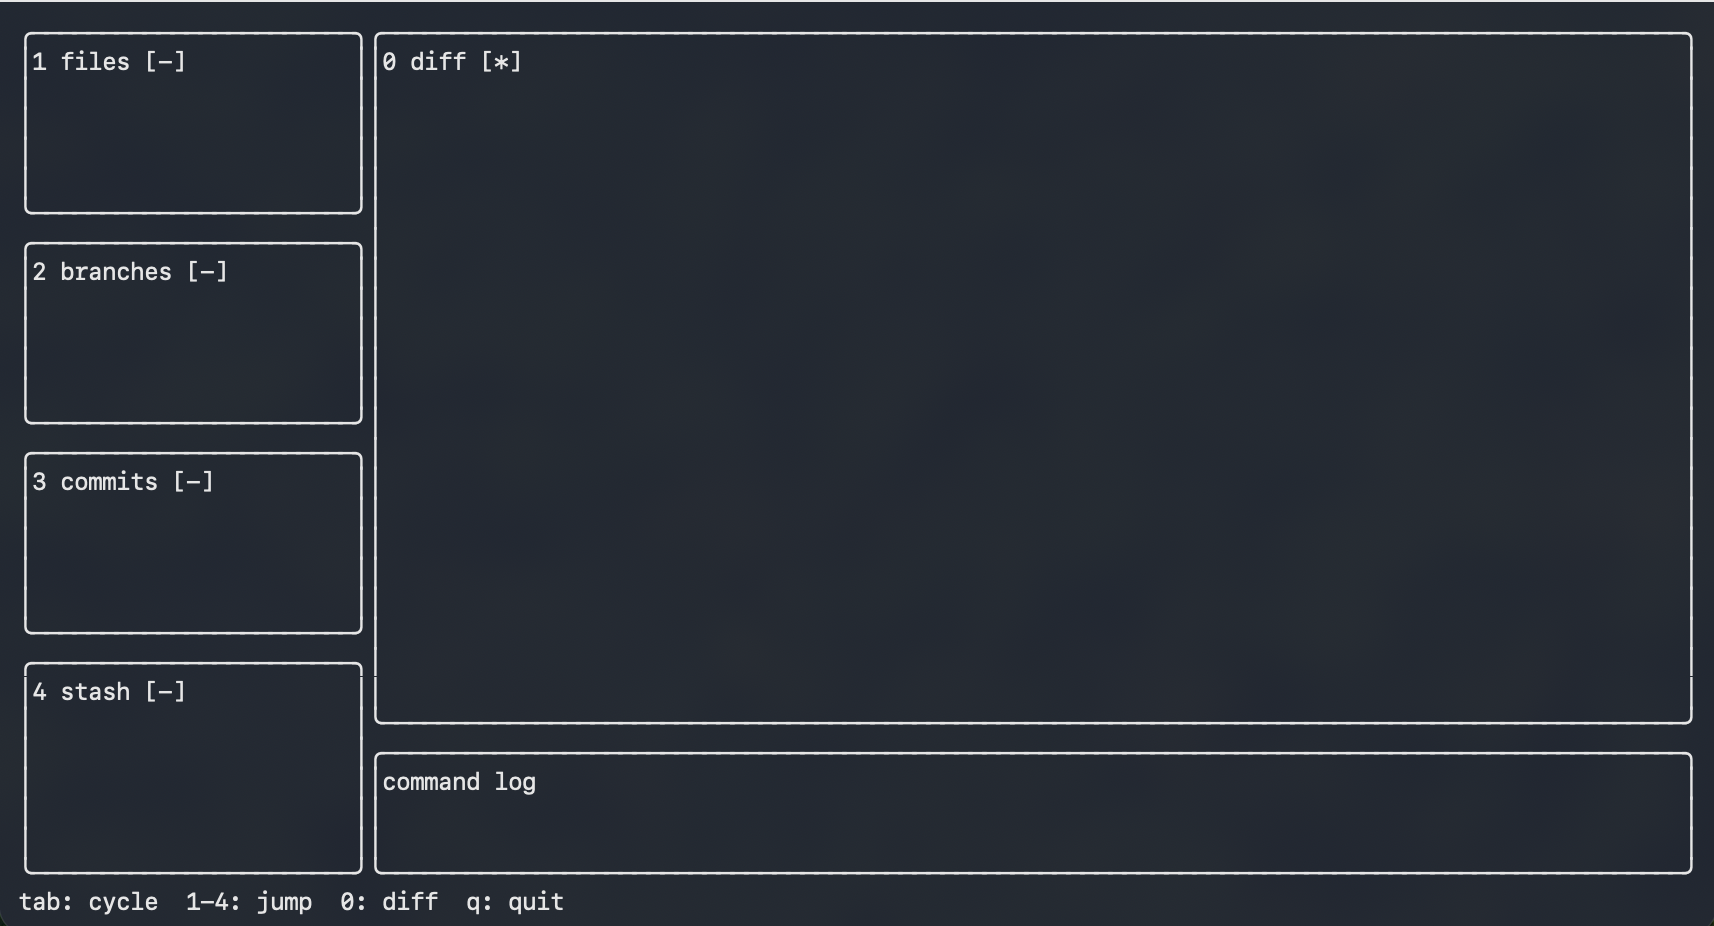
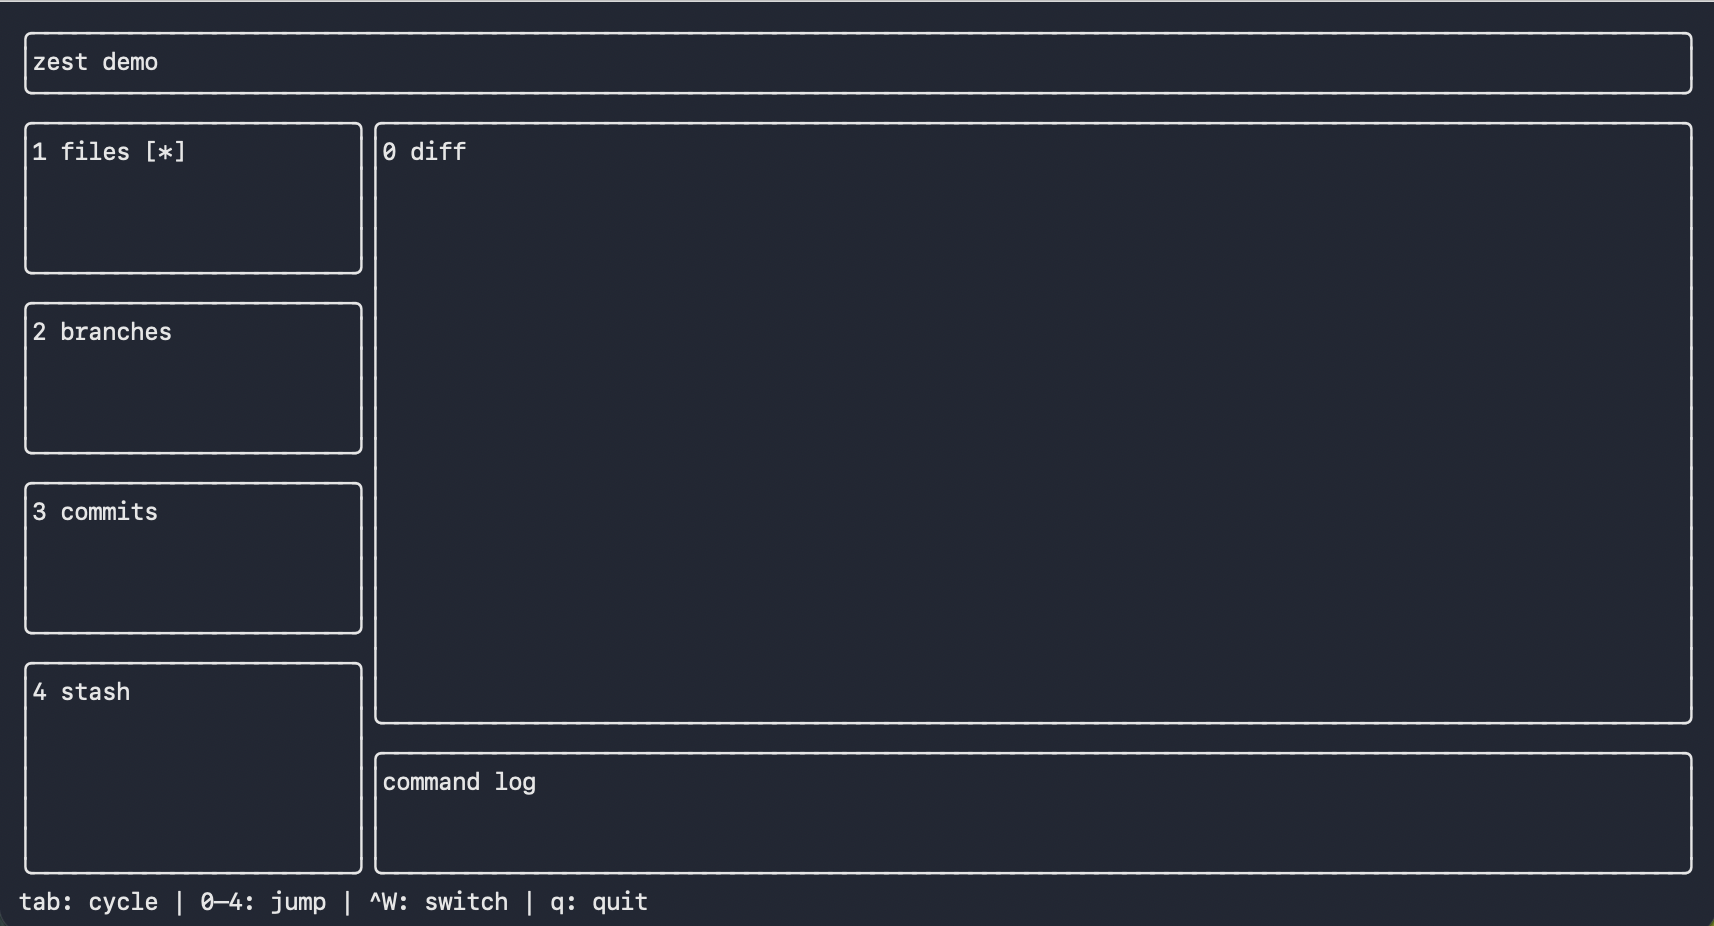
rewrite README to document shipped layout and focus domain APIs
Core Ideas gains Focus Domains and Non-Focusable Chrome sections covering
what's now implemented. Quick Start is split into two parts: basic layout
(pane/hsplit/vsplit) and focus domains (domain(), panelCountInDomain, per-
domain FocusStack passing). Roadmap milestone 3 updated to reflect what was
actually built — FocusStack, Tab cycling, domain isolation — and marked
complete. Demo image replaced with the current lazygit-style layout.

diff --git a/README.md b/README.md
@@ -1,6 +1,6 @@
 # Zest
 
-Declarative, high-level TUI framework for Zig — comptime layouts, zero heap per frame.
+Declarative, high-level TUI framework for Zig — comptime layouts, domain focus isolation, zero heap per frame.
 
 > **Status: Pre-alpha. Active development. Not ready for production use.**
 
@@ -8,9 +8,113 @@ Declarative, high-level TUI framework for Zig — comptime layouts, zero heap pe
 
 ## What is Zest?
 
-Zest is a TUI framework for Zig that lets you build rich, beautiful terminal applications without writing layout math or touching terminal escape sequences. It sits above [`libvaxis`](https://github.com/rockorager/libvaxis) and handles everything between raw terminal I/O and your application logic.
+Zest is a TUI framework for Zig that lets you build rich terminal applications without writing layout math or touching terminal escape sequences. It sits above [`libvaxis`](https://github.com/rockorager/libvaxis) and handles everything between raw terminal I/O and your application logic.
 
-The goal is to give Zig developers what Textual gives Python developers — a productive, expressive way to build terminal UIs with a clean component model, a design token styling system, and predictable performance.
+The goal is to give Zig developers what Textual gives Python developers — a productive, expressive way to build terminal UIs. The entire screen structure is a single comptime blueprint tree: geometry, focus topology, and chrome are all declared in one place.
+
+---
+
+## Why Not Just Use libvaxis Directly?
+
+libvaxis handles the hard parts at the bottom — terminal I/O, screen diffing, cell rendering. Zest handles the hard parts at the top: turning a declarative intent into correct pixel geometry and focus topology, every frame, with no boilerplate. The premise is that **screen structure is a type, not a calculation**.
+
+libvaxis ships a higher-level layer called `vxfw` with `FlexColumn`, `FlexRow`, and `SplitView` widgets. Using those, the geometry for the demo is expressible without manual coordinate arithmetic. Here is what it looks like:
+
+```zig
+// Every widget is a mutable runtime struct — all must be kept alive for
+// the duration of the frame. Widget identity is *anyopaque at every edge.
+var header_text:   vxfw.Text = .{ .text = "zest demo" };
+var files_text:    vxfw.Text = .{ .text = "1 files" };
+var branches_text: vxfw.Text = .{ .text = "2 branches" };
+var commits_text:  vxfw.Text = .{ .text = "3 commits" };
+var stash_text:    vxfw.Text = .{ .text = "4 stash" };
+var diff_text:     vxfw.Text = .{ .text = "0 diff" };
+var cmdlog_text:   vxfw.Text = .{ .text = "command log" };
+var footer_text:   vxfw.Text = .{ .text = "tab: cycle | ..." };
+
+// SizedBox enforces fixed heights for chrome panes.
+// .size is a vxfw.Size struct; omitting .width leaves it unconstrained.
+var header_box: vxfw.SizedBox = .{ .size = .{ .height = 3 }, .child = header_text.widget() };
+var cmdlog_box: vxfw.SizedBox = .{ .size = .{ .height = 5 }, .child = cmdlog_text.widget() };
+var footer_box: vxfw.SizedBox = .{ .size = .{ .height = 1 }, .child = footer_text.widget() };
+
+var sidebar: vxfw.FlexColumn = .{ .children = &.{
+    .{ .widget = files_text.widget(),    .flex = 1 },
+    .{ .widget = branches_text.widget(), .flex = 1 },
+    .{ .widget = commits_text.widget(),  .flex = 1 },
+    .{ .widget = stash_text.widget(),    .flex = 1 },
+}};
+var main_col: vxfw.FlexColumn = .{ .children = &.{
+    .{ .widget = diff_text.widget(),  .flex = 1 },
+    .{ .widget = cmdlog_box.widget(), .flex = 0 },
+}};
+// SplitView is horizontal-only and binary — one separator, two sides.
+var body_split: vxfw.SplitView = .{
+    .lhs = sidebar.widget(), .rhs = main_col.widget(), .width = 25,
+};
+var root: vxfw.FlexColumn = .{ .children = &.{
+    .{ .widget = header_box.widget(), .flex = 0 },
+    .{ .widget = body_split.widget(), .flex = 1 },
+    .{ .widget = footer_box.widget(), .flex = 0 },
+}};
+```
+
+This works. The geometry math is gone. But two problems remain that vxfw does not address.
+
+**Focus topology is still entirely manual.** vxfw's `App` routes key events to whichever widget currently holds focus, but focus topology — which panels share a Tab ring, which domains are independent, which panes are non-focusable chrome — is the application's responsibility. After the layout above, you still write the same `SIDEBAR_COUNT` constant, the same per-panel boolean conditions, and the same four-site update when a pane is added.
+
+**Panel identity is lost at every node.** The widget protocol is `*anyopaque` + function pointer at every boundary. There is no `p.sidebar`, no compile-time name validation, and `FlexColumn` heap-allocates a `Surface` and children list on every draw call.
+
+The same layout in Zest is the single blueprint in the [Quick Start](#focus-domains) section below. The difference is not just fewer lines — it is a different level of abstraction.
+
+**You describe intent, not computation.** `fraction = 1` replaces coordinate arithmetic, and the layout declaration and focus topology live in the same tree. Rename a pane — it's one word change; mistype it and the compiler tells you immediately.
+
+**The schema is the program.** Adding a fifth sidebar pane is one new `pane()` line. Tab cycling, domain isolation, and focus stamping are all derived from that declaration — there is no parallel counter, no index to keep in sync, no extra branch to remember.
+
+**Correctness is structural, not conventional.** `focusable = false` on a header or log strip is a compile-time fact. The compositor enforces it unconditionally. In vxfw and raw libvaxis alike, the invariant "this panel is never focused" is a convention — invisible to the compiler and easy to violate under refactoring.
+
+### Structural changes stay local
+
+This advantage compounds when you make changes. Say you want to split the command log into a raw log on the left and a detail view on the right.
+
+In Zest, wrap the existing `pane` in an `hsplit` and add one child:
+
+```zig
+// Before — one line:
+zest.pane(.{ .id = "cmdlog", .size = .{ .fixed = 5 }, .border = true, .focusable = false }),
+
+// After — still one logical declaration:
+zest.hsplit(.{
+    .size     = .{ .fixed = 5 },
+    .children = &.{
+        zest.pane(.{ .id = "cmdlog", .size = .{ .fraction = 1 }, .border = true, .focusable = false }),
+        zest.pane(.{ .id = "detail", .size = .{ .fixed = 30 },   .border = true, .focusable = false }),
+    },
+}),
+```
+
+`p.detail` appears in the result struct immediately. Forget to render it and the compiler tells you.
+
+In vxfw, the same change touches four separate sites:
+
+```zig
+// Before — cmdlog is a SizedBox wrapping a single Text widget:
+var cmdlog_box: vxfw.SizedBox = .{ .size = .{ .height = 5 }, .child = cmdlog_text.widget() };
+
+// After — new Text, new SizedBox, new FlexRow, and main_col's children rewired.
+var detail_text: vxfw.Text     = .{ .text = "detail" };
+var detail_box:  vxfw.SizedBox = .{ .size = .{ .width = 30 }, .child = detail_text.widget() };
+var cmdlog_row:  vxfw.FlexRow  = .{ .children = &.{
+    .{ .widget = cmdlog_text.widget(), .flex = 1 },
+    .{ .widget = detail_box.widget(),  .flex = 0 },
+}};
+var main_col: vxfw.FlexColumn = .{ .children = &.{
+    .{ .widget = diff_text.widget(),  .flex = 1 },
+    .{ .widget = cmdlog_row.widget(), .flex = 0 },  // ← was cmdlog_box
+}};
+```
+
+And the focus bookkeeping is unchanged — because vxfw never touched it.
 
 ---
 
@@ -18,19 +122,36 @@ The goal is to give Zig developers what Textual gives Python developers — a pr
 
 ### Comptime Panel Layouts
 
-The structure of your screen — which panels go where — is declared as nested anonymous structs and validated at compile time. No layout math. No coordinate arithmetic. The framework resolves panel positions at render time using the actual terminal dimensions.
+Screen structure — which panels go where, which share a Tab focus ring, which are non-focusable chrome — is declared as a comptime blueprint tree and validated at compile time. The framework resolves panel positions from actual terminal dimensions at render time. No layout math. No coordinate arithmetic.
+
+### Focus Domains
+
+`domain()` nodes mark focus boundaries inside the blueprint. Tab cycling is constrained to the focusable panes within a single domain; focus never crosses domain boundaries automatically. Each domain gets its own `FocusStack`. Pressing a hotkey to jump between domains is explicit, deliberate, and stays within each column's own memory.
+
+```zig
+const layout = zest.vsplit(.{
+    .children = &.{
+        zest.domain(.{ .id = "nav",  .direction = .vertical, .size = .{ .fixed = 25 }, .children = &.{ ... } }),
+        zest.domain(.{ .id = "main", .direction = .vertical, .size = .{ .fraction = 1 }, .children = &.{ ... } }),
+    },
+});
+```
+
+### Non-Focusable Chrome
+
+Panes declared with `focusable = false` are excluded from Tab cycling and always report `focused = false`. Headers, footers, status bars, and log strips are declared inline — no null-focus plumbing needed.
 
 ### Widgets Own Their State *(planned)*
 
-Widgets will be structs with explicit state — scroll position, cursor, selection index. Application data (the items a list displays, the rows a table renders) is passed in at draw time. This keeps widgets reusable and keeps your data model in control.
+Widgets will be structs with explicit state — scroll position, cursor, selection index. Application data is passed in at draw time. This keeps widgets reusable and keeps your data model in control.
 
 ### Design Token Styling *(planned)*
 
-Colors and text styles will be expressed as named tokens (`primary`, `danger`, `surface`, `muted`) rather than raw color codes. A theme maps tokens to concrete terminal colors at render time. Invalid token usage fails at compile time.
+Colors and text styles will be expressed as named tokens (`primary`, `danger`, `surface`, `muted`) rather than raw color codes. A theme maps tokens to concrete terminal colors at render time.
 
 ### Single-Threaded First
 
-Zest uses a straightforward single-threaded event loop: read event → update state → render. This makes the execution model easy to reason about and debug. Threading is planned as an opt-in feature after v1.0.
+A straightforward single-threaded event loop: read event → update state → render. Threading is an opt-in feature planned post-1.0.
 
 ### Zero Heap Per Frame
 
@@ -40,13 +161,15 @@ All memory allocated during a render pass lives in a frame-scoped arena that is 
 
 ## Demo
 
-![Zest lazygit-style demo — seven bordered panels with named layout and focus cycling](docs/img/demo.png)
+![Zest demo — lazygit-style layout with header, sidebar focus domain, main focus domain, command log, and footer](docs/img/demo.png)
 
 ---
 
 ## Quick Start
 
-Declare your screen layout once as a comptime blueprint — Zest resolves panel positions from the actual terminal dimensions at render time:
+### Layout
+
+Declare your screen structure once as a comptime blueprint. `hsplit` and `vsplit` are branch nodes that divide space; `pane` is a leaf that becomes a rendered panel:
 
 ```zig
 const layout = zest.hsplit(.{
@@ -63,41 +186,14 @@ const layout = zest.hsplit(.{
 });
 ```
 
-Call `Layout.panels()` on each frame to get a named struct of panels — one field per pane, no index arithmetic:
+Call `Layout.panels()` each frame to get a named struct of panels — one field per pane:
 
 ```zig
-const State = struct {};
-
-fn update(state: *State, event: zest.Event, win: vaxis.Window, alloc: std.mem.Allocator) zest.UpdateResult {
-    _ = state;
-    _ = alloc;
-    switch (event) {
-        .key_press => |key| {
-            if (key.matches('q', .{})) return .quit;
-            return .idle;
-        },
-        .winsize, .focus_changed => {
-            win.clear();
-            const p = zest.Layout.panels(layout, win,
-                .{ .x = 0, .y = 0, .width = win.width, .height = win.height }, .{});
-            _ = p.sidebar.win.print(&.{.{ .text = "Sidebar" }}, .{});
-            _ = p.header.win.print(&.{.{ .text = "Header"  }}, .{});
-            _ = p.body.win.print(&.{.{ .text = "Body"    }}, .{});
-            return .redraw;
-        },
-        else => return .idle,
-    }
-}
-
-pub fn main(init: std.process.Init) !void {
-    var tty_buf: [4096]u8 = undefined;
-    var app = try zest.App.init(init.io, init.gpa, init.environ_map, &tty_buf);
-    defer app.deinit();
-    var state: State = .{};
-    var focus = zest.FocusStack.init(zest.Focus.init(zest.Layout.panelCount(layout)));
-    var active: *zest.FocusStack = &focus;
-    try app.run(&state, &active, update);
-}
+const p = zest.Layout.panels(layout, win,
+    .{ .x = 0, .y = 0, .width = win.width, .height = win.height }, .{});
+_ = p.sidebar.win.print(&.{.{ .text = "Sidebar" }}, .{});
+_ = p.header.win.print(&.{.{ .text = "Header"  }}, .{});
+_ = p.body.win.print(&.{.{ .text = "Body"    }}, .{});
 ```
 
 Renaming a pane — `"sidebar"` to `"nav"` — is a compile error, not a silent index mismatch:
@@ -108,7 +204,62 @@ error: no field named 'sidebar' in struct 'PanelsType(hsplit(.{ .children = &.{ 
           ^~~~~~~
 ```
 
-**Focus cycling:** `FocusStack` tracks which panel is active; Tab cycles through focusable panes automatically. See [`src/main.zig`](src/main.zig) for a full example with focus highlighting and per-column isolation.
+### Focus Domains
+
+Wrap groups of panes in `domain()` nodes to create independent Tab rings. Each domain gets its own `FocusStack`; only the active domain's pane shows as focused:
+
+```zig
+const layout = zest.vsplit(.{
+    .children = &.{
+        zest.domain(.{
+            .id        = "sidebar",
+            .direction = zest.Direction.vertical,
+            .size      = .{ .fixed = 25 },
+            .children  = &.{
+                zest.pane(.{ .id = "files",   .size = .{ .fraction = 1 }, .border = true }),
+                zest.pane(.{ .id = "commits", .size = .{ .fraction = 1 }, .border = true }),
+            },
+        }),
+        zest.domain(.{
+            .id        = "main",
+            .direction = zest.Direction.vertical,
+            .size      = .{ .fraction = 1 },
+            .children  = &.{
+                zest.pane(.{ .id = "diff",   .size = .{ .fraction = 1 }, .border = true }),
+                zest.pane(.{ .id = "status", .size = .{ .fixed = 3 },    .border = true, .focusable = false }),
+            },
+        }),
+    },
+});
+```
+
+Initialize one `FocusStack` per domain using `panelCountInDomain`, then pass whichever is active to `panels()` — the inactive domain receives `null` and its panes report `focused = false`:
+
+```zig
+const State = struct {
+    focus_sidebar: zest.FocusStack,
+    focus_main:    zest.FocusStack,
+    active_focus:  *zest.FocusStack,
+};
+
+// In main():
+state.focus_sidebar = zest.FocusStack.init(zest.Focus.init(
+    zest.Layout.panelCountInDomain(layout, "sidebar")));
+state.focus_main = zest.FocusStack.init(zest.Focus.init(
+    zest.Layout.panelCountInDomain(layout, "main")));
+state.active_focus = &state.focus_sidebar;
+
+// In draw():
+const sidebar_fs: ?*zest.FocusStack = if (state.active_focus == &state.focus_sidebar)
+    &state.focus_sidebar else null;
+const main_fs: ?*zest.FocusStack = if (state.active_focus == &state.focus_main)
+    &state.focus_main else null;
+const p = zest.Layout.panels(layout, win,
+    .{ .x = 0, .y = 0, .width = win.width, .height = win.height },
+    .{ .sidebar = sidebar_fs, .main = main_fs });
+```
+
+See [`src/main.zig`](src/main.zig) for the complete demo.
 
 ---
 
@@ -118,7 +269,7 @@ error: no field named 'sidebar' in struct 'PanelsType(hsplit(.{ .children = &.{ 
 |---|---|---|
 | 1 — Foundation | libvaxis wiring, event loop, frame arena, resize handling | ✅ Complete |
 | 2 — Layout Engine | Layout types, recursive solver, Layout compositor, named panels | ✅ Complete |
-| 3 — Focus & Events | Focus ring, modal stack, event dispatch to widgets | 🔄 In progress |
+| 3 — Focus System | FocusStack, Tab cycling, domain focus isolation, non-focusable chrome | ✅ Complete |
 | 4 — Core Widgets | Text, List (virtual scroll), theme system | 🔲 Planned |
 | 5 — Table & Custom Widgets | Data grid, custom widget state protocol | 🔲 Planned |
 | 6 — Release | Dashboard example, benchmark harness, docs, v0.1.0 | 🔲 Planned |